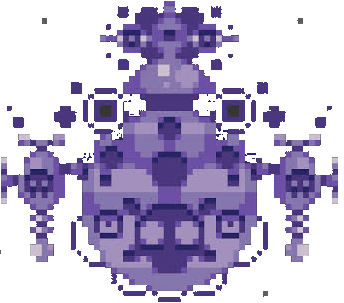
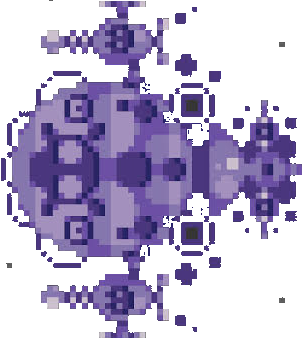
bug

diff --git a/src/logic/GameEngine.java b/src/logic/GameEngine.java
@@ -100,6 +100,7 @@ public class GameEngine extends Application{
 	private MotherShip pod1;
 	private MotherShip pod2;
 	private GiantM boss1;
+	private GiantM boss2;
 	private Baiter baiter;
 	private int bulletNumber;
 	private FileInputStream backgroundUrl;
@@ -167,7 +168,7 @@ public class GameEngine extends Application{
 		bulletNumber = 0;
 		wave1= false;
 		wave2 = false;
-		waveNumber = 1;
+		waveNumber = -1;
 		wave1Final = false;
 		wave2Final = false;
 		wave3 = false;
@@ -179,7 +180,7 @@ public class GameEngine extends Application{
 		wave6 = false;
 		wave6Final = false;
 		wave7 = false;
-		wave7Final = false;
+		wave7Final = true;
 		astranoutList = new LinkedList<Astronaut>();
 		landerList = new LinkedList<Lander>();
 		enemyBulletList = new LinkedList<Bullet>();
@@ -614,9 +615,11 @@ public class GameEngine extends Application{
 		}
 		if(wave7Final) {
 			if(wave7con==1) {
-				boss1 = new GiantM(ship.getX()+400,ship.getY());
-				boss1.setBoss2();
+				boss1 = new GiantM(ship.getX()+600,ship.getY());
+				boss2 = new GiantM(ship.getX()-600,ship.getY());
+				boss2.setBoss2();
 				gamePane.getChildren().add(boss1.getImageView());
+				gamePane.getChildren().add(boss2.getImageView());
 				wave7con=0;
 			}
 			if(boss1.getLife()<0) {
@@ -627,9 +630,38 @@ public class GameEngine extends Application{
 				boss1 = null;
 			}
 			else {
-				//processFinal();
+				processFinal();
 			}
 		}
+	}
+	
+	private void processFinal() {
+		if(ship.getX()>boss1.getX())
+			boss1.setXDirection(1);
+		else
+			boss1.setXDirection(-1);
+
+		if(ship.getY()< boss1.getY())
+			boss1.setYDirection(-1);
+		else
+			boss1.setYDirection(1);
+		
+		if(ship.getX()>boss1.getX())
+			boss2.setXDirection(1);
+		else
+			boss2.setXDirection(-1);
+
+		if(ship.getY()< boss2.getY())
+			boss2.setYDirection(-1);
+		else
+			boss2.setYDirection(1);
+
+		boss1.move(0,1);
+		boss2.move(0,1);
+		checkCollision();
+
+		boss1Fire();
+		boss2Fire();
 	}
 	
 	private void moveLanders() {
@@ -731,6 +763,40 @@ public class GameEngine extends Application{
 					(ship.getX()-boss1.getX())/200,(ship.getY()-boss1.getY())/200));
 		enemyBulletList.get(enemyBulletList.size()-1).setSpeed(2);
 		enemyBulletList.get(enemyBulletList.size()-1).setBug();
+		gamePane.getChildren().add(enemyBulletList.get(enemyBulletList.size()-1).getImageView());
+		gamePane.getChildren().add(enemyBulletList.get(enemyBulletList.size()-2).getImageView());
+		}
+		
+		for(int i=0; i<enemyBulletList.size(); i++) {
+			enemyBulletList.get(i).move(1, 1);
+			enemyBulletList.get(i).countTimer();
+			if(enemyBulletList.get(i).getTimer() == 120) {
+				removeGameObject(enemyBulletList.get(i));
+				enemyBulletList.remove(i);
+			}
+		}
+	}
+	
+	private void boss2Fire() {
+		int randomFire = (int)(Math.random() * 50) + 0;
+		//Create fire from the coordinates of the lander, direction to ship
+		if(randomFire == 5 && boss2!=null) {
+			if(boss2.getXDirection()>0)
+		enemyBulletList.add(new Bullet(boss2.getX()+225,boss2.getY(),
+				(ship.getX()-boss2.getX())/200,(ship.getY()-boss2.getY())/200));
+			if(boss2.getXDirection()<0)
+				enemyBulletList.add(new Bullet(boss2.getX(),boss2.getY(),
+						(ship.getX()-boss1.getX())/200,(ship.getY()-boss2.getY())/200));
+		enemyBulletList.get(enemyBulletList.size()-1).setSpeed(2);
+		enemyBulletList.get(enemyBulletList.size()-1).setBug2();
+		if(boss2.getXDirection()>0)
+		enemyBulletList.add(new Bullet(boss2.getX()+225,boss2.getY()+246,
+				(ship.getX()-boss2.getX())/200,(ship.getY()-boss2.getY())/200));
+		if(boss2.getXDirection()<0)
+			enemyBulletList.add(new Bullet(boss2.getX(),boss2.getY()+246,
+					(ship.getX()-boss2.getX())/200,(ship.getY()-boss2.getY())/200));
+		enemyBulletList.get(enemyBulletList.size()-1).setSpeed(2);
+		enemyBulletList.get(enemyBulletList.size()-1).setBug2();
 		gamePane.getChildren().add(enemyBulletList.get(enemyBulletList.size()-1).getImageView());
 		gamePane.getChildren().add(enemyBulletList.get(enemyBulletList.size()-2).getImageView());
 		}
@@ -925,6 +991,34 @@ public class GameEngine extends Application{
 			}
 			}
 			if(collisionManager.isCollide(boss1, ship)) {
+				ship.decreaseLife();
+				ship.setX(40);
+				ship.setY(40);
+				soundManager.play("crash");
+				if(lifeThree != null) {
+					leftTop.getChildren().remove(lifeThree);
+					lifeThree = null;
+				}
+				else if(lifeTwo != null) {
+					leftTop.getChildren().remove(lifeTwo);
+					lifeTwo = null;
+				}
+				else if(lifeOne != null) {
+					leftTop.getChildren().remove(lifeOne);
+					lifeOne = null;
+				}
+			}
+		}
+		
+		if(boss2 != null) {
+			for(int i=0; i<shipBulletList.size(); i++) {
+			if(collisionManager.isCollide(shipBulletList.get(i), boss2)) {
+				boss2.decreaseLife();
+				removeGameObject(shipBulletList.get(i));
+				shipBulletList.remove(i);
+			}
+			}
+			if(collisionManager.isCollide(boss2, ship)) {
 				ship.decreaseLife();
 				ship.setX(40);
 				ship.setY(40);
@@ -1156,7 +1250,6 @@ public class GameEngine extends Application{
 
 		if(inputManager.getBoost()) {
 			ship.setSpeed(2);
-			soundManager.play("speed");
 		}
 		if(inputManager.getBoost()==false)
 			ship.setSpeed(1);

diff --git a/src/entity/Bullet.java b/src/entity/Bullet.java
@@ -15,6 +15,7 @@ public class Bullet extends GameObject{
 	private FileInputStream bombIm;
 	private FileInputStream bugIm;
 	private FileInputStream mineIm;
+	private FileInputStream bug2Im;
   //Constructor
   public Bullet(double x, double y, double d, double f){
     super(x,y);
@@ -44,6 +45,13 @@ public class Bullet extends GameObject{
 	mineIm = null;
 	try {
 		mineIm = new FileInputStream("./assets/mine.png");
+	} catch (FileNotFoundException e) {
+		// TODO Auto-generated catch block
+		e.printStackTrace();
+	}
+	bug2Im = null;
+	try {
+		bug2Im = new FileInputStream("./assets/bug2.png");
 	} catch (FileNotFoundException e) {
 		// TODO Auto-generated catch block
 		e.printStackTrace();
@@ -113,5 +121,11 @@ public class Bullet extends GameObject{
 	  imageView.setImage(new Image(mineIm));
 	  rect.setWidth(20);
 	  rect.setHeight(20);
+  }
+  
+  public void setBug2() {
+	  imageView.setImage(new Image(bug2Im));
+	  setBugWidth();
+	  setBugHeight();
   }
 }
